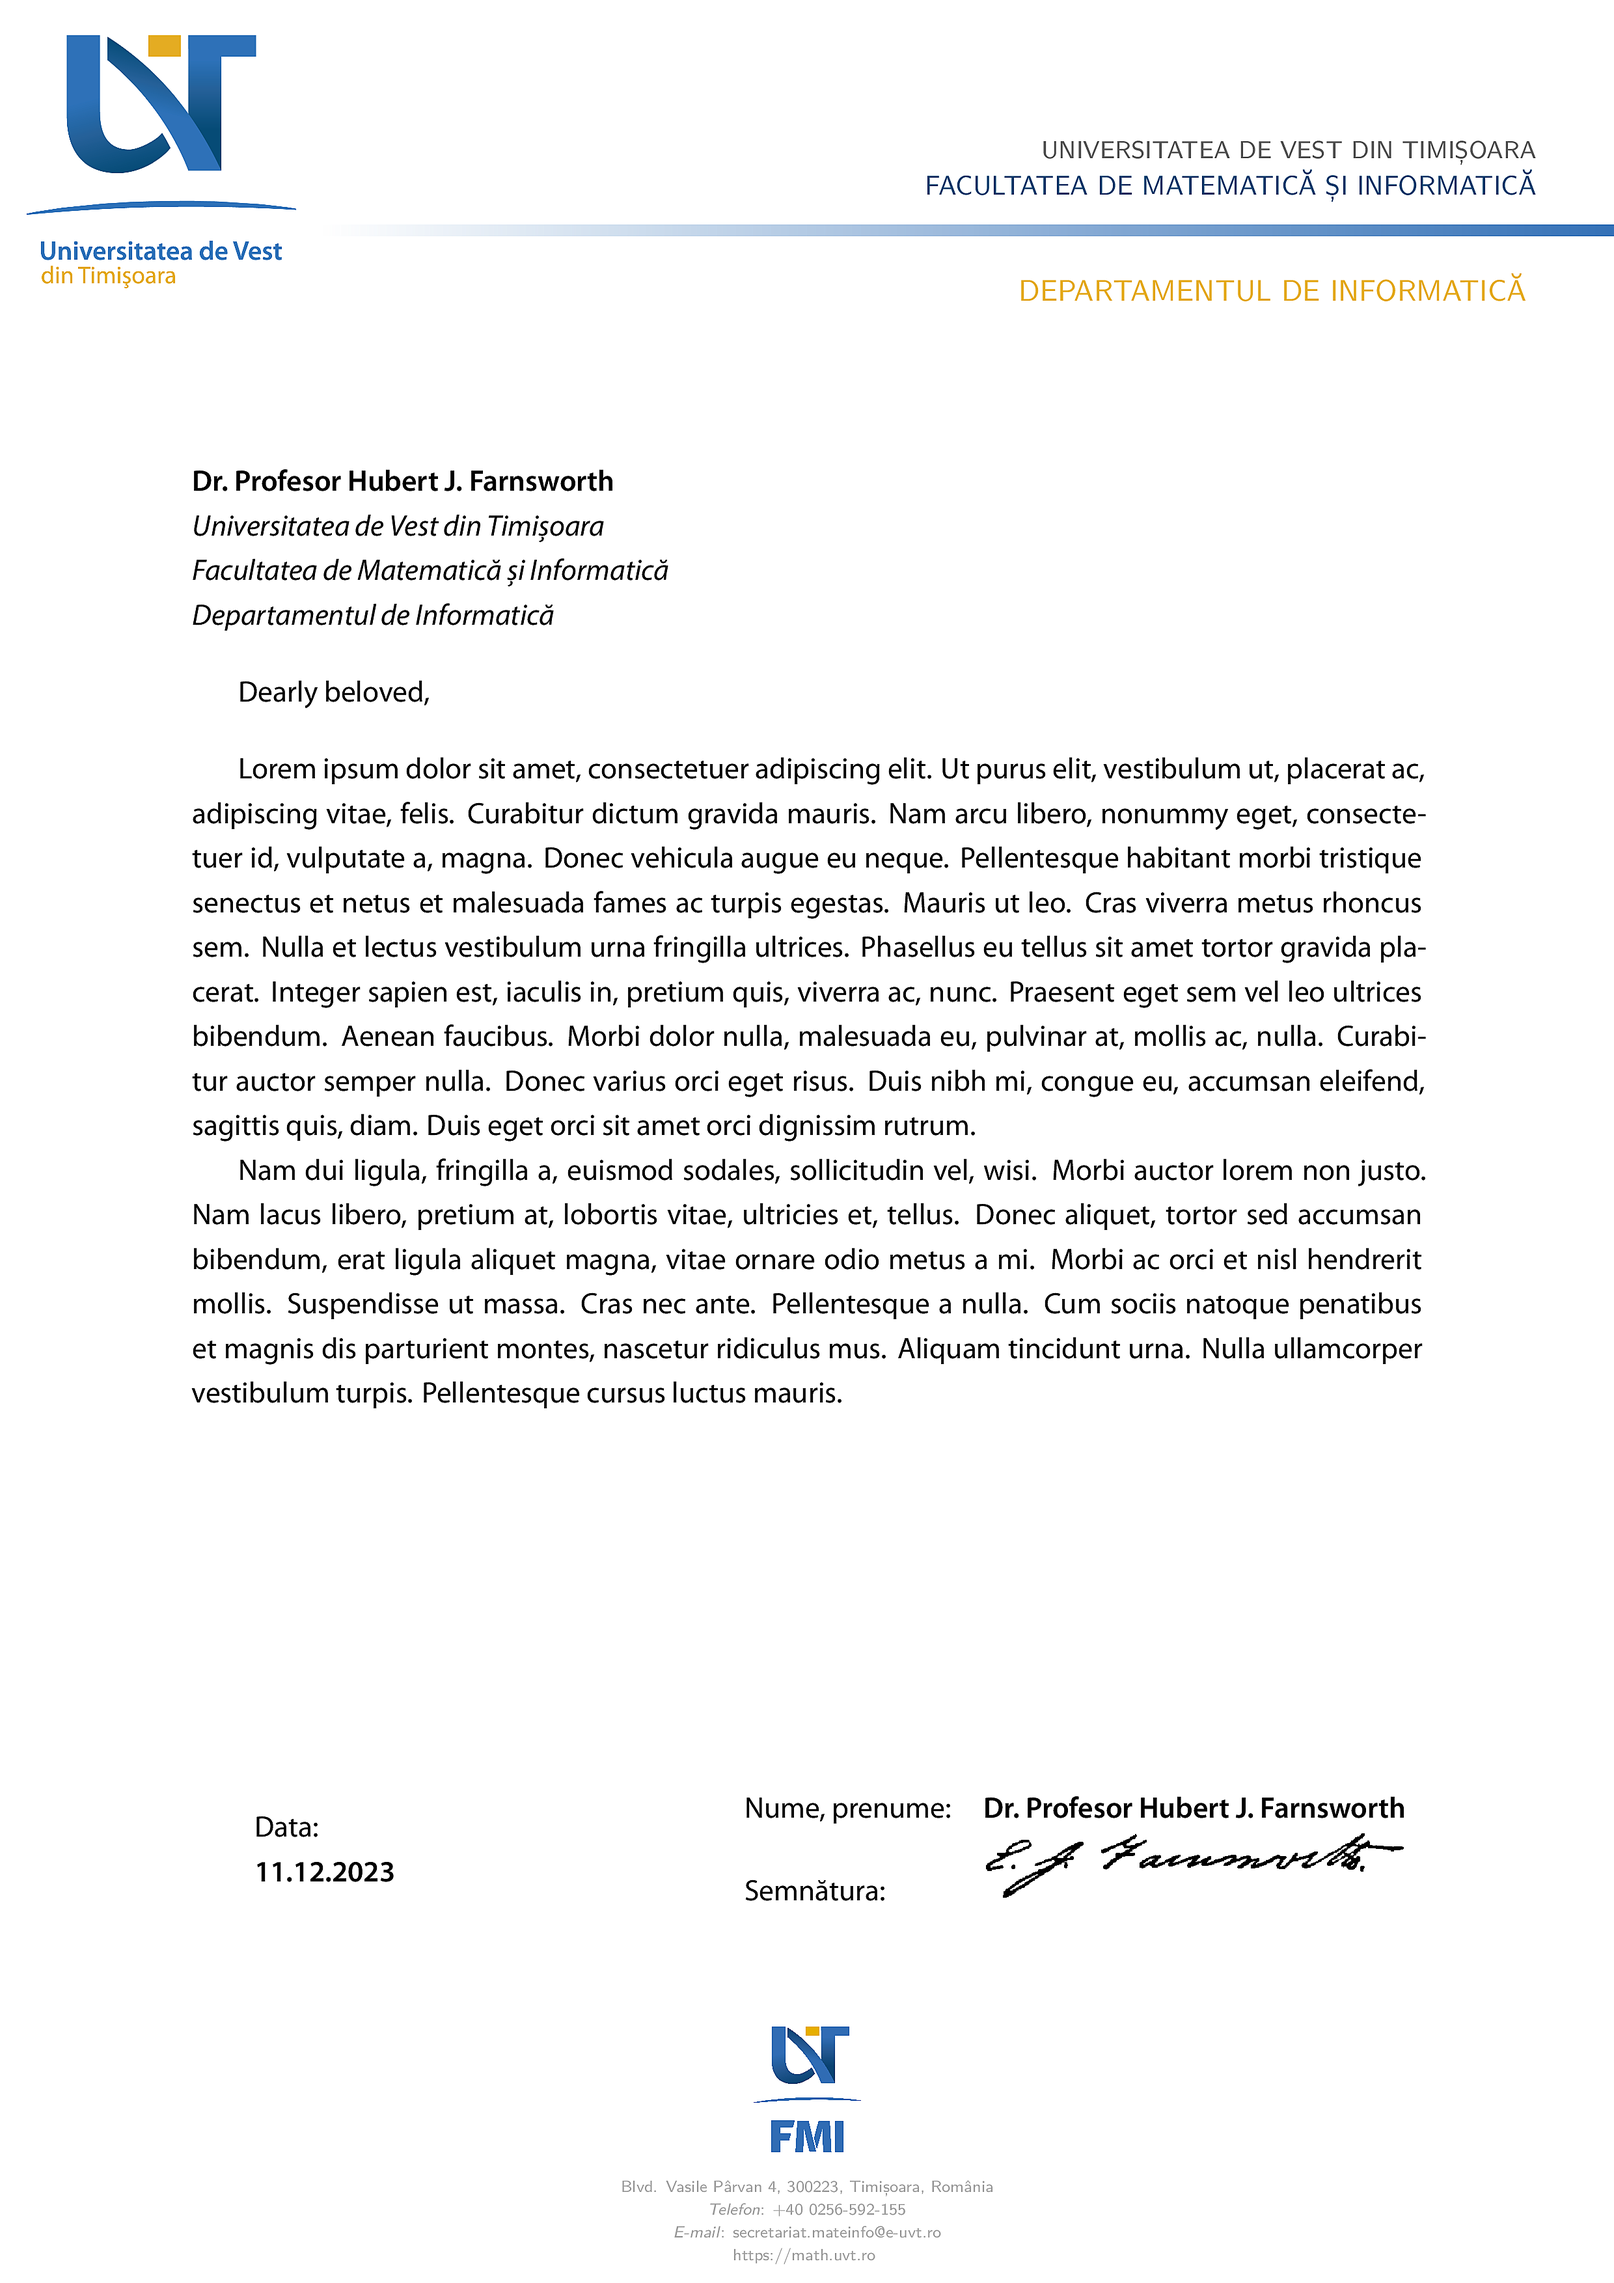
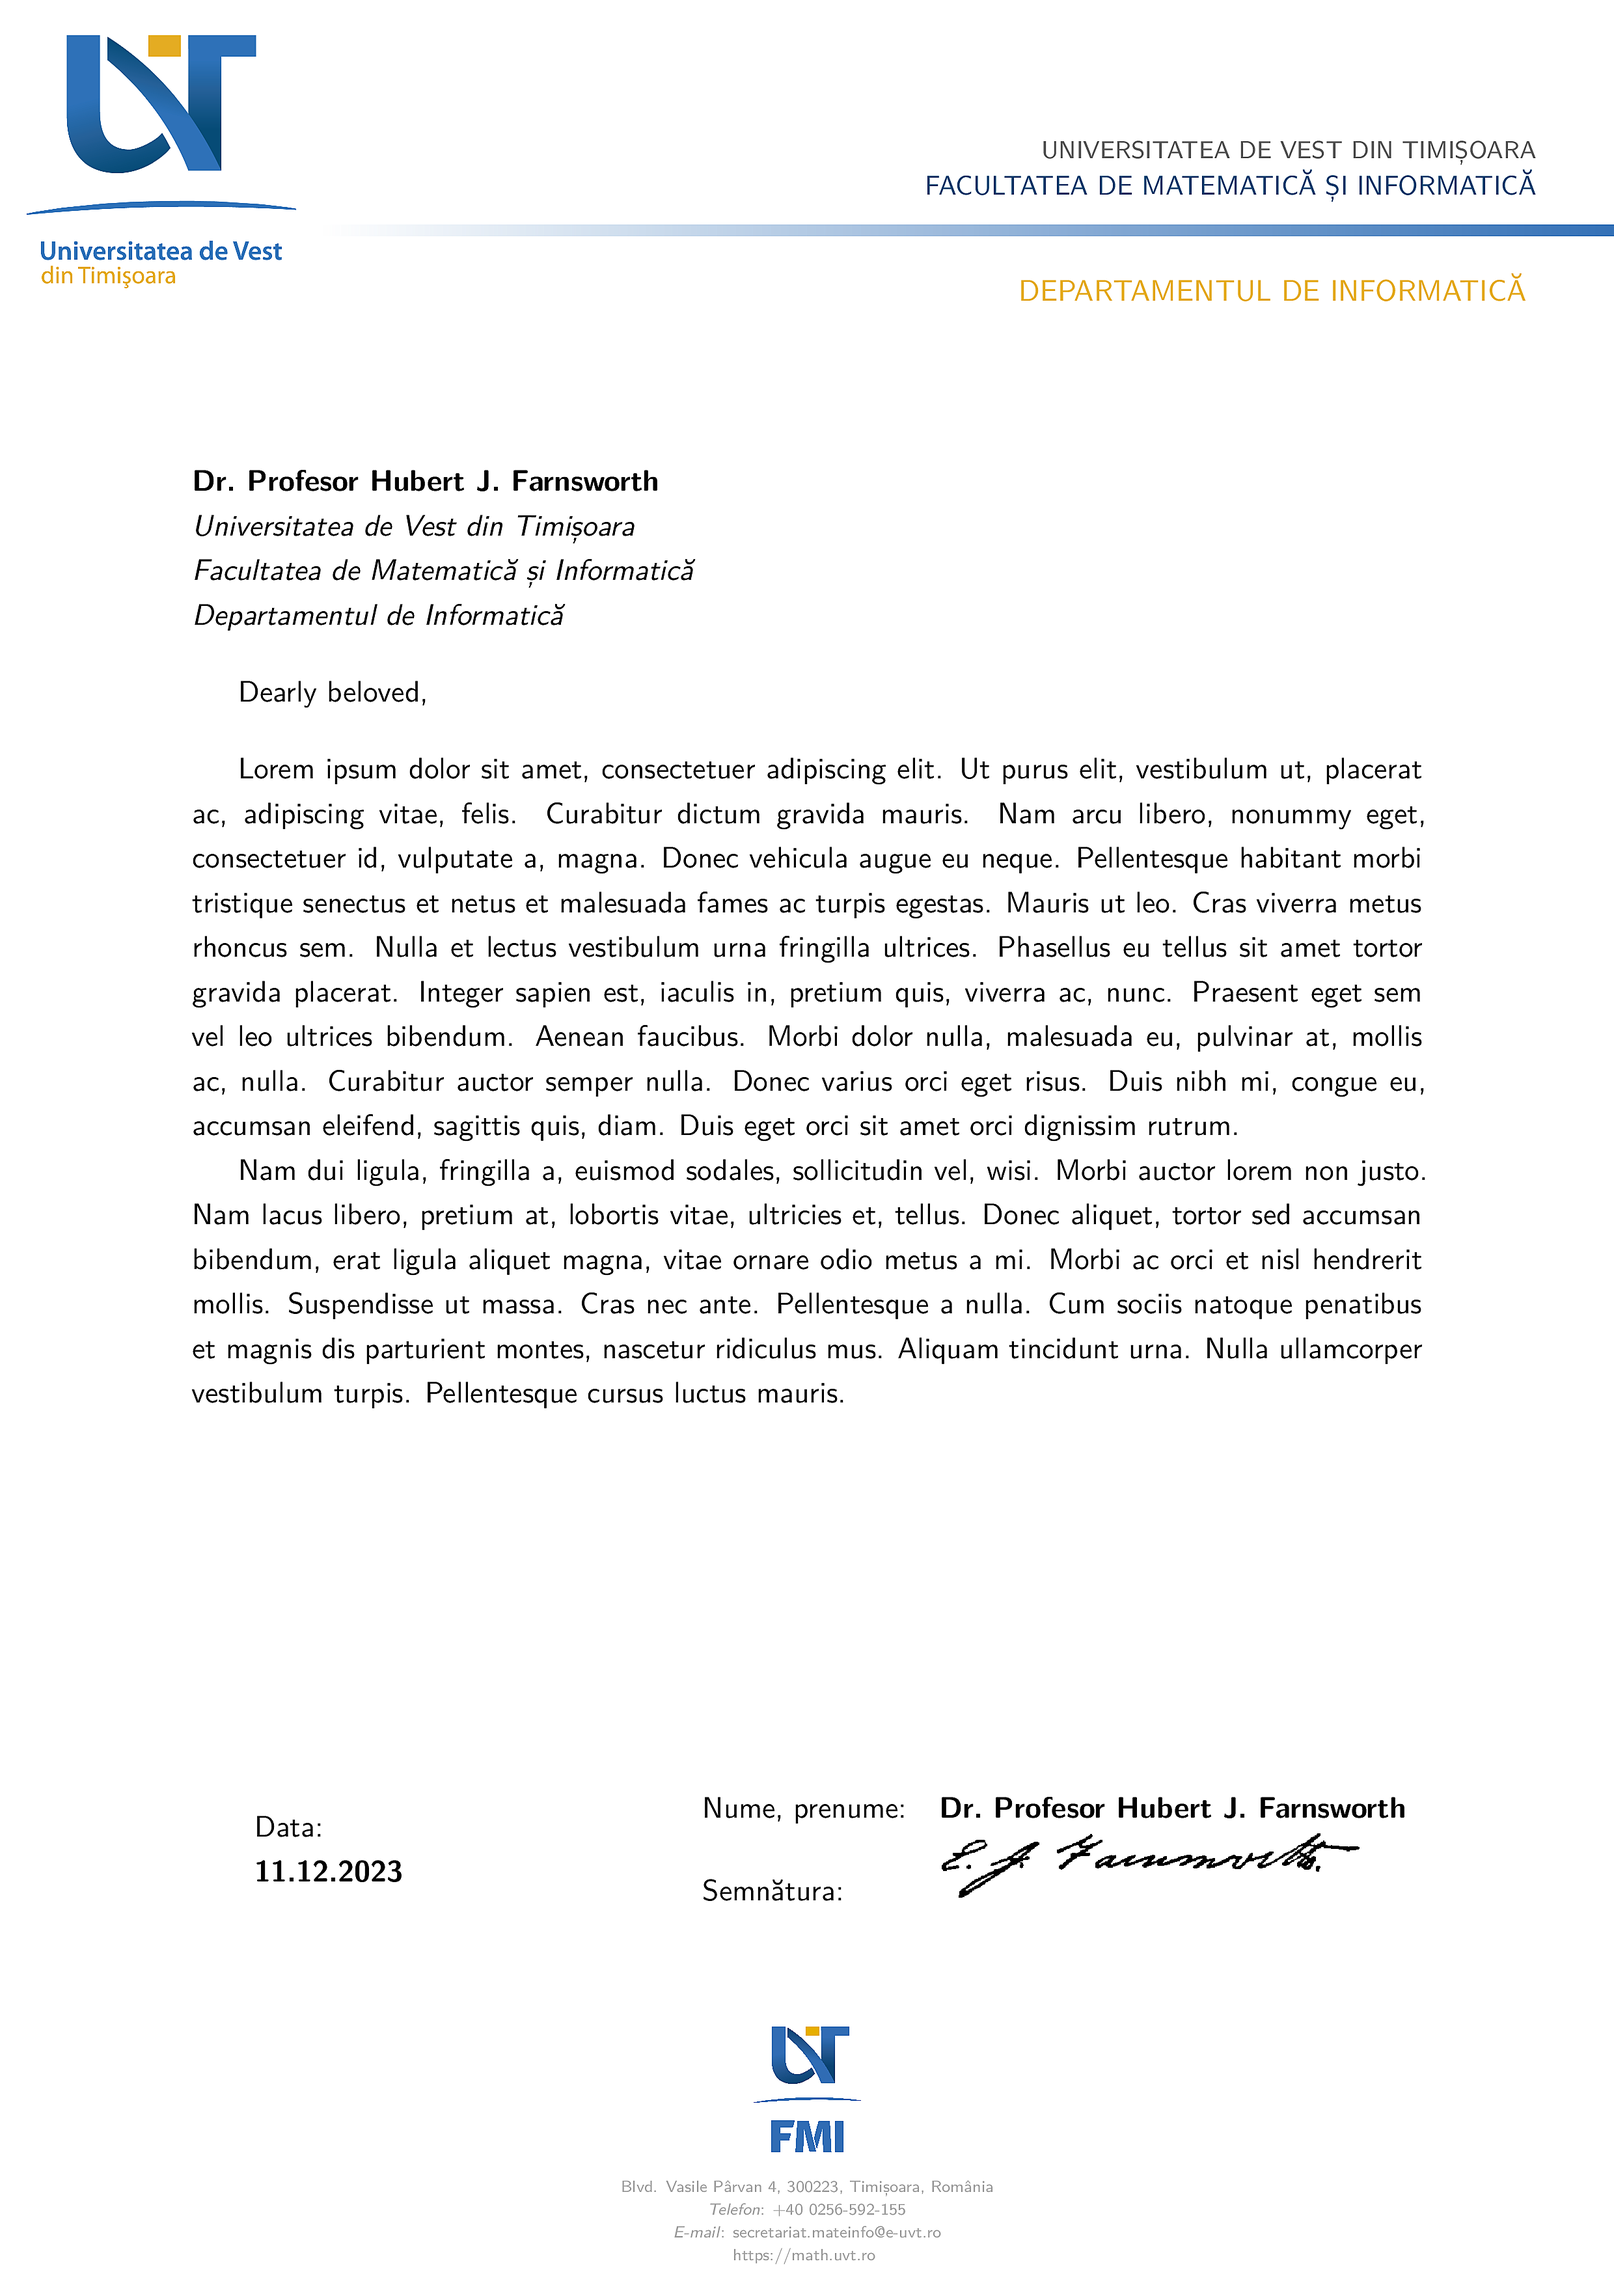
feat: recommend helvet with nomyriadpro

diff --git a/template.tex b/template.tex
@@ -9,6 +9,9 @@
 \usepackage{geometry}
 \geometry{top=6cm, left=2.5cm, right=2.5cm, bottom=5cm}
 
+% NOTE: if Myriad Pro is not available use another sans serif font
+% \usepackage{helvet}
+
 % NOTE: toggle the following lines to switch to Romanian
 % \usepackage[romanian]{babel}
 % \selectlanguage{romanian}
